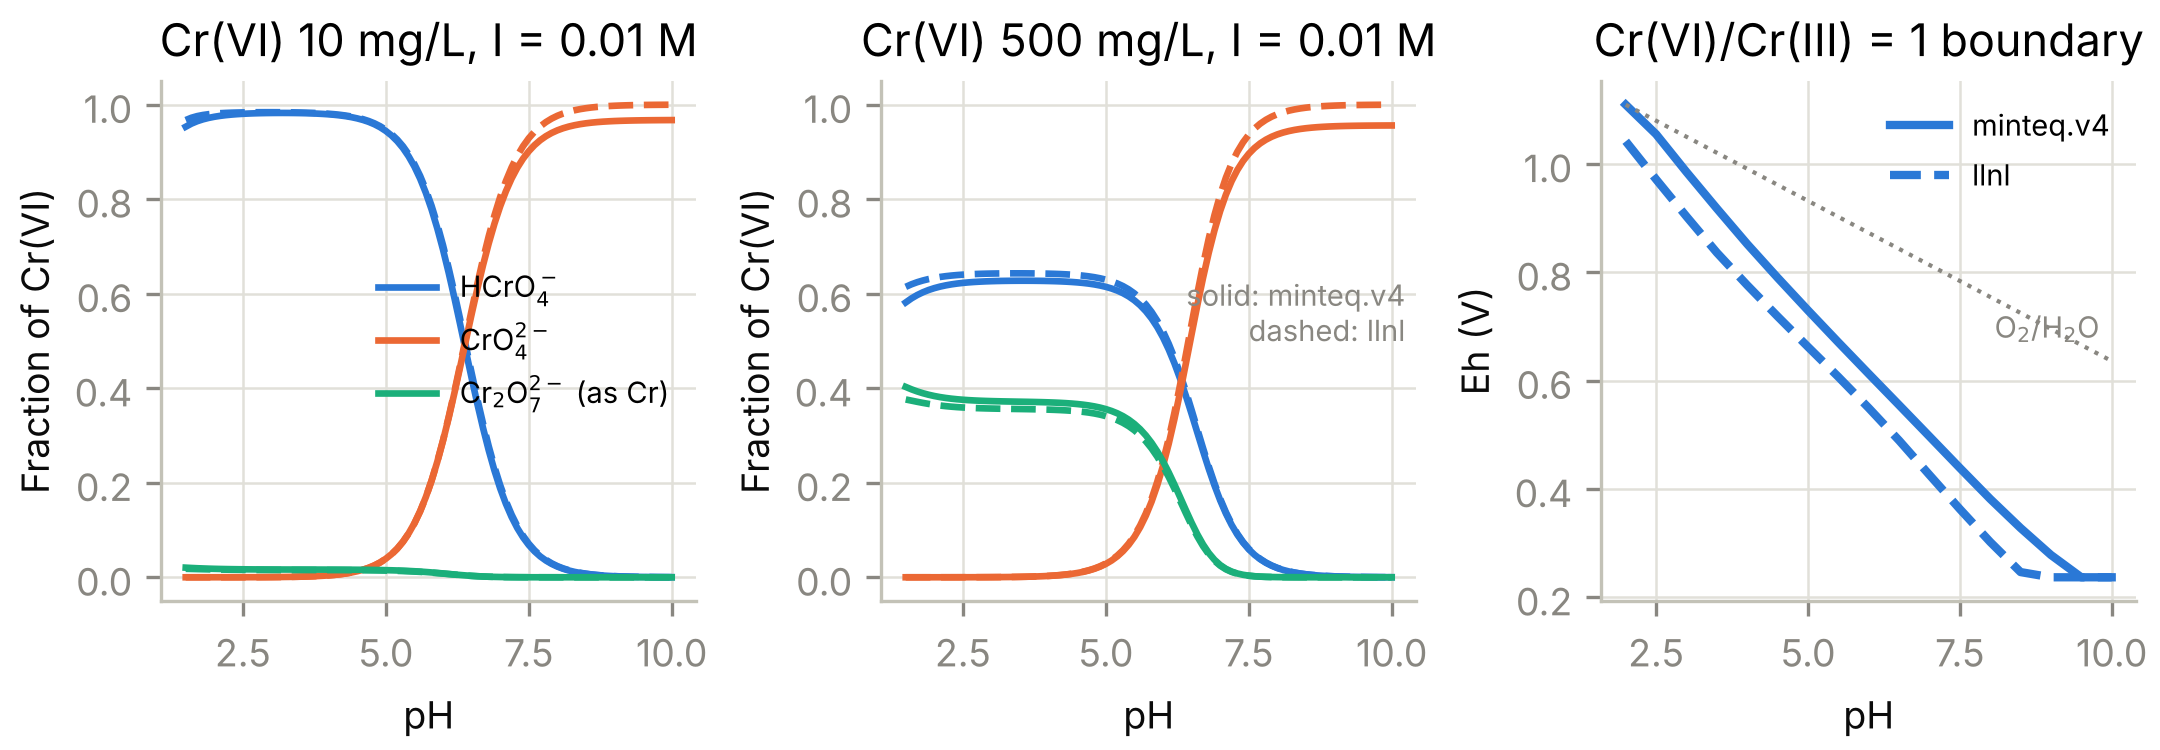
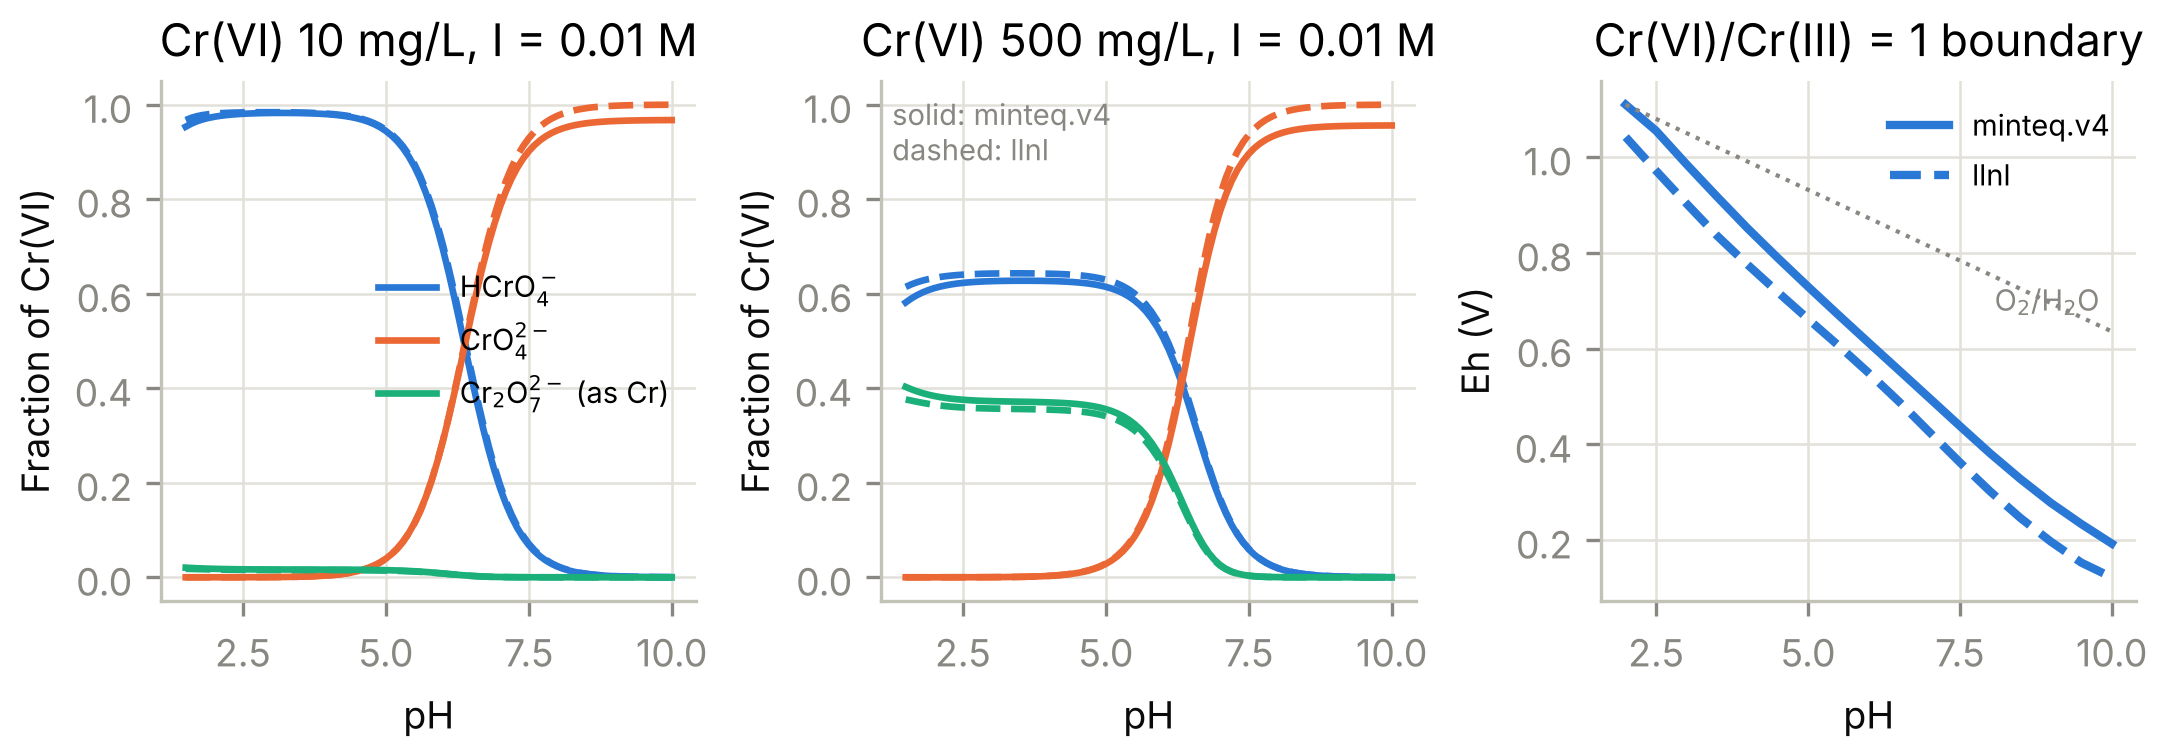
Speed up GPR validation, fix redox grid and Cr(III) index, add manuscript draft
Claude-Session: https://claude.ai/code/session_01GFzJmQTFtMep2it1kYJtwA

diff --git a/cassia/cassia/validation.py b/cassia/cassia/validation.py
@@ -50,7 +50,7 @@ class _ARDGPR(GaussianProcessRegressor):
     """GPR whose Matern length scale is expanded to one per feature at fit time (ARD)."""
 
     def __init__(self, kernel=None):
-        super().__init__(kernel=kernel, normalize_y=True, n_restarts_optimizer=1, random_state=0)
+        super().__init__(kernel=kernel, normalize_y=True, n_restarts_optimizer=0, random_state=0)
 
     def fit(self, X, y):
         k = ConstantKernel(1.0) * Matern(length_scale=np.ones(X.shape[1]), nu=2.5,
@@ -96,7 +96,7 @@ def metrics(q_true, q_pred):
 def _group_conformal_scores(model_name, X, y, groups, seed=0):
     """Absolute out-of-study residuals (target scale) from inner grouped CV on training studies."""
     scores, study_means = np.empty(len(y)), []
-    for tr, te in GroupKFold(min(5, len(np.unique(groups)))).split(X, y, groups):
+    for tr, te in GroupKFold(min(3, len(np.unique(groups)))).split(X, y, groups):
         m = make_model(model_name, seed).fit(X.iloc[tr], y[tr])
         r = y[te] - m.predict(X.iloc[te])
         scores[te] = np.abs(r)

diff --git a/cassia/manuscript/CASSIA_manuscript.md b/cassia/manuscript/CASSIA_manuscript.md
@@ -1,0 +1,116 @@
+# CASSIA: A Data-Provenance-Aware, Speciation-Constrained Computational Framework for Distinguishing Cr(VI) Adsorption, Reduction and Precipitation in Carbonaceous Wastewater Treatment Systems
+
+**Author:** Karthik [surname, affiliation and ORCID to be completed by the author]
+**Corresponding author:** karthikresearchworks@gmail.com
+
+**Article type:** Research article (computational methods)
+
+---
+
+## Highlights
+
+- A decrease in measured Cr(VI) is not evidence of adsorption. CASSIA keeps the two apart through provenance-tagged endpoints and evidence classes.
+- Two PHREEQC databases agree on Cr(VI) speciation but differ in redox and Cr(III)-solid thermodynamics.
+- In known-truth simulations, isotherm fits with R² ≥ 0.95 conceal reduction and overstate Langmuir q_max.
+- Leave-one-study-out validation shows how much random splits overstate the transferability of machine-learning models.
+- Study-aware conformal intervals restore nominal coverage where model-internal intervals under-cover.
+
+## Abstract
+
+<!--ABSTRACT-->
+
+**Keywords:** hexavalent chromium; activated carbon; biochar; PHREEQC; adsorption isotherm identifiability; leave-one-study-out validation; conformal prediction; data provenance
+
+---
+
+## 1. Introduction
+
+Hexavalent chromium is a priority contaminant in effluents from electroplating, leather tanning, pigment and wood-preservation industries. Its toxicity and mobility differ sharply from those of Cr(III) (Kotaś and Stasicka, 2000). Carbonaceous materials are the most studied low-cost sorbents for Cr(VI), and the literature now contains many batch studies on activated carbons, biochars and biomass-derived porous carbons (Mohan and Pittman, 2006; Mohan et al., 2011; Dong et al., 2011). Most of these studies report isotherm and kinetic constants, and a growing number train machine-learning models on the pooled values.
+
+The difficulty is that Cr(VI) on carbon is a redox-active system. At low pH, oxygen-containing functional groups and the carbon matrix reduce Cr(VI) to Cr(III). Part of the Cr(III) is released to solution, part stays bound to the surface, and at higher pH it can precipitate as Cr(OH)₃ (Park et al., 2004; Dong et al., 2011). The quantity most often measured, residual Cr(VI) by the 1,5-diphenylcarbazide method, therefore records the *disappearance* of Cr(VI), not its adsorption. When q_e = (C₀ − C_e)/m is computed from residual Cr(VI) and fitted with Langmuir, Freundlich or pseudo-second-order equations, the fitted constants mix adsorption, reduction and precipitation in proportions the analysis cannot see. Critical reviews have documented related problems in aqueous adsorption modelling: linearised fitting, R² as the only selection criterion, and misread kinetic models (Tran et al., 2017; Simonin, 2016; Wang and Guo, 2020).
+
+Machine-learning studies add a further risk. Rows from one publication share an adsorbent, a laboratory and an analytical protocol. Random train/test splits therefore leak study identity into the test set and inflate apparent accuracy (Roberts et al., 2017). A model can reach a high random-split R² while being unable to predict an unseen material.
+
+This work builds and tests the infrastructure needed to ask whether aqueous speciation, adsorption-model selection and uncertainty-aware learning can separate genuine adsorption from apparent Cr(VI) removal. Four research questions are posed:
+
+- **RQ1.** Does PHREEQC-derived Cr(VI) speciation improve predictive performance over raw pH and composition descriptors?
+- **RQ2.** Can conventional isotherm and kinetic fitting distinguish adsorption from apparent removal?
+- **RQ3.** Do models generalise across studies and material families, and how much do random splits overstate this?
+- **RQ4.** How much uncertainty comes from unreported solution chemistry and from between-study heterogeneity, and can prediction intervals be made reliable?
+
+RQ2–RQ4 cannot be answered with published data alone, because no published study reports the true adsorption/reduction split for every observation. We therefore pair a PHREEQC chemistry layer with a *known-truth* simulation study. Virtual batch experiments are generated from a mechanistic model that couples speciation-dependent adsorption, acid-promoted surface reduction and Cr(III) partitioning. They are then analysed exactly as published data would be. This design tests whether a method *can* recover the mechanism when the truth is known. It is a necessary condition for trusting the method on real data, but it does not replace real data. The multi-study literature dataset is defined here (schema, evidence classes, extraction protocol), but its extraction is reported as ongoing, and no empirical conclusion about real carbons is drawn in this paper.
+
+The contribution is deliberately methodological. CASSIA does not claim a new adsorption mechanism, and the existing packages it uses (phreeqpython, adsorption, pyGAPS) are used for what they were designed for.
+
+## 2. Methods
+
+### 2.1 Software audit and roles
+
+Four open-source code bases were audited for fitness of purpose (Table 1).
+
+**Table 1.** Roles of the audited code bases in CASSIA.
+
+| Code base | Licence | Role in CASSIA | Audit finding that shaped the design |
+|---|---|---|---|
+| phreeqpython (PHREEQC 3) (Parkhurst and Appelo, 2013) | Apache-2.0 | Aqueous Cr chemistry (core) | Bundled databases (`phreeqc.dat`, `wateq4f_PWN.dat`, `vitens.dat`, `pitzer.dat`) contain no Cr species. Cr-bearing databases from the USGS distribution must be supplied and validated. The `change_ph` helper relies on a `Fix_pH` phase absent from `minteq.v4.dat`. |
+| adsorption (amvro23) | MIT | Isotherm and kinetic equations (core) | `Isotherms.set_inlet` applies a gas-phase transform (P·M_r/RT) to x. The Temkin equation fixes T = 298.15 K. Both are bypassed for aqueous data, and the equations are reused directly. |
+| pyGAPS (Iacomi and Llewellyn, 2019) | MIT | BET recalculation from published N₂ isotherms (secondary) | Designed for gas/vapour isotherms. Used only for textural descriptors, never for aqueous Cr data. `area_BET_raw` expects the cross-section in nm². |
+| RASPA3 (Ran et al., 2024) | see upstream | Not used in this release | No aqueous Cr(VI)–carbon surface-reaction model, and its reaction-ensemble functionality is experimental. Deferred (Section 4.4). |
+
+### 2.2 Chromium chemistry layer
+
+PHREEQC 3 was driven through phreeqpython 1.6.2 with two databases distributed by the USGS: `minteq.v4.dat` (MINTEQA2 v4 lineage; Allison et al., 1991) and `llnl.dat` (LLNL `thermo.com.V8.R6.230`). Other databases were rejected programmatically. Both contain the Cr(VI) protonation and dimerisation equilibria, Cr(III) hydrolysis species and the Cr(VI)/Cr(III) redox couple.
+
+*Cr(VI) speciation.* Cr was entered as `Cr(6)` with one K⁺ per Cr, representing K₂Cr₂O₇ stock. PHREEQC does not re-equilibrate valence states entered separately in an initial solution, so this represents a freshly prepared Cr(VI) solution regardless of the default pe. Background electrolyte was NaCl at the stated ionic strength. pH was imposed by charge balance on Cl⁻ (acid addition) or, where the chromate charge exceeded the cation pool, on Na⁺ (base addition). Fractions are reported per Cr atom, so Cr₂O₇²⁻ counts twice.
+
+*Redox scenarios.* Because batch papers almost never report Eh, the Cr(VI)/Cr(III) partition was computed as an explicit scenario: total Cr entered without a valence state, at an assumed pe. The grid was restricted to the stability field of water (pe ≤ 20.75 − pH at 25 °C). Outside it, PHREEQC does not converge and the results have no physical meaning. For each pH, the pe at which Cr(VI) and Cr(III) are equally abundant (pe₅₀) was obtained by interpolation. Eh = 0.05916·pe V.
+
+*Cr(III) solubility.* The dissolved Cr(III) in equilibrium with Cr(OH)₃(am) or Cr₂O₃ was computed with the SOLUTION phase-boundary option (concentration adjusted to SI = 0 at fixed pH) in `minteq.v4.dat`. In `llnl.dat` the only Cr(III) solid (eskolaite) is written in terms of CrO₄²⁻ and O₂(aq), so a Cr(III)-only solubility is undefined without fixing the redox state. This asymmetry is reported as a database finding, not hidden. Below pH ≈ 4.5 the phase-boundary iteration does not converge for Cr(OH)₃(am), which indicates no solubility constraint at realistic concentrations.
+
+*Speciation features for learning.* For each experimental condition (pH, C₀, I), CASSIA computes f(HCrO₄⁻), f(CrO₄²⁻), f(Cr₂O₇²⁻), the mean Cr(VI) charge per Cr atom, and the PHREEQC ionic strength. pH − pH_pzc is added as a surface-charge proxy.
+
+### 2.3 Data provenance, endpoints and evidence classes
+
+The master dataset schema (`data/cassia_schema.csv`) has 31 fields. Every row carries a DOI, a source location (table, figure or SI file) and an extraction method. Three endpoints are kept separate:
+
+- q_app,VI = (C₀ − C_e,VI)/D, apparent Cr(VI) disappearance, always computable;
+- q_total = (C₀ − C_e,total)/D, total-Cr uptake, only when total Cr was measured;
+- the aqueous Cr(III) index, Σ(C_e,total − C_e,VI)/Σ(C₀ − C_e,VI), the share of Cr(VI) disappearance recovered as dissolved Cr(III).
+
+Studies are assigned to evidence classes automatically (`cassia.dataset.classify`). **Class A** needs total and Cr(VI)-specific analyses, solid-phase Cr speciation (XPS or XANES), a final or controlled pH, and a reported background electrolyte. **Class B** needs either total Cr or solid-phase speciation. **Class C** has residual Cr(VI) only. For Class C rows the only permitted endpoint label is `apparent_CrVI_disappearance`. Unreported Eh, ionic strength, alkalinity and major ions are never imputed into the data file. They enter only as labelled scenario ranges (Section 2.7). The PRISMA 2020-aligned search, screening and extraction protocol (Page et al., 2021) is in `data/PROTOCOL.md`.
+
+### 2.4 Known-truth virtual batch experiments
+
+Each virtual study draws one material from one of three families (activated carbon, biochar, biomass-derived porous carbon). Family-specific ranges cover BET area, point of zero charge and reductant capacity, the latter being largest for biochars, consistent with their higher content of oxidisable organic matter. The batch model is a set of ordinary differential equations integrated with LSODA:
+
+- Cr(VI) uptake follows a linear-driving-force approach to a Langmuir equilibrium q_eq = q_max K C/(1 + K C). The affinity is K = K₀ [0.05 + f(HCrO₄⁻ + Cr₂O₇²⁻)] [0.1 + (1 + exp((pH − pH_pzc)/0.8))⁻¹]. The speciation fractions are interpolated from PHREEQC (`minteq.v4.dat`, 50 mg L⁻¹, I = 0.01 M).
+- Reduction is first order in dissolved Cr(VI) and proportional to the remaining surface reductant R_s (finite capacity R₀), with acid promotion (1 + 10^(pH − pH₅₀))⁻¹ and Arrhenius temperature dependence (E_a = 35 kJ mol⁻¹).
+- Reduced chromium is partitioned into a surface-bound fraction (logistic in pH) and a dissolved fraction. The dissolved fraction is capped at the PHREEQC Cr(OH)₃(am) solubility, and any excess precipitates.
+
+Measured concentrations carry 3% relative analytical noise, a 0.02 mg L⁻¹ detection limit and a study-level multiplicative calibration bias (log-normal, σ = 0.05). Each study contains an 8-point isotherm (C₀ = 10–400 mg L⁻¹ at the study's optimum pH, 1.8–3.5), a 6-point pH edge (pH 2–8, C₀ = 100 mg L⁻¹) and an 8-point kinetic series. Dose, temperature, ionic strength and equilibration time vary between studies. The training corpus has 24 studies (8 per family, 528 observations, seed 2026). An independent external corpus of 9 studies uses a different seed (777). Mass conservation is checked by unit test.
+
+The simulator encodes one plausible mechanistic picture, chosen to be qualitatively consistent with the literature. It is not calibrated to any material. Its purpose is to make the ground truth available, not to predict real carbons.
+
+### 2.5 Isotherm and kinetic model benchmarking (Model A)
+
+The Langmuir, Freundlich, Sips and Temkin isotherms, and the pseudo-first-order (PFO) and pseudo-second-order (PSO) kinetic equations, were fitted in their nonlinear forms by bounded least squares. The equations were taken from `adsorption.models`, with Temkin evaluated at the experimental temperature. Models were ranked by AICc and Akaike weights (Burnham and Anderson, 2002), with BIC also reported. Residuals were tested with Shapiro–Wilk (normality) and a Wald–Wolfowitz runs test (systematic misfit). Parameter 95% confidence intervals came from a 300-replicate residual bootstrap. For each virtual study the fitted Langmuir q_max was compared with the true adsorption capacity, and the true share of Cr(VI) disappearance caused by reduction was computed from the simulator state.
+
+### 2.6 Machine-learning models and validation (Models B and C)
+
+The target was q_app,VI, modelled as log₁₀(q + 0.1 mg g⁻¹) and back-transformed for metrics. Two feature sets were compared. The *base* set (C₀, pH, D, t, T, I, S_BET, V_p, d_p, pH_pzc) is what a paper typically reports. The *chem* set adds the PHREEQC speciation features (Section 2.2). Three learners were used: random forest (Breiman, 2001; 400 trees), XGBoost (Chen and Guestrin, 2016; 500 rounds, depth 4) and Gaussian-process regression with a Matérn-5/2 ARD kernel plus white noise on standardised features (Rasmussen and Williams, 2006), all via scikit-learn (Pedregosa et al., 2011).
+
+Four validation schemes were applied to every model–feature combination: random 5-fold (diagnostic only), grouped 5-fold by study, leave-one-study-out (LOSO) and leave-one-material-family-out (LOFO). The models were then refitted on all 24 studies and scored on the 9-study external corpus. RMSE, MAE, median absolute error and R² are reported in mg g⁻¹.
+
+*Uncertainty (Model C).* Model-internal intervals (GPR predictive SD; RF across-tree spread) were compared with study-aware split-conformal intervals (Lei et al., 2018). In each outer LOSO fold, absolute residuals were collected from an inner 3-fold grouped CV over the training studies, and the ⌈(n+1)α⌉/n quantile set the interval half-width. Because calibration residuals are always out-of-study, the intervals absorb between-study variability. Coverage was evaluated at nominal levels 0.5–0.95, with PICP₉₀ (coverage at 90%) and the average coverage error (ACE, mean |empirical − nominal|). Between-study variability was quantified by a method-of-moments random-intercept decomposition of the out-of-study residuals (τ², σ², ICC; Gelman and Hill, 2007).
+
+### 2.7 Missing-chemistry scenarios and robust design
+
+For the pH-edge conditions, the effect of unreported chemistry on f(HCrO₄⁻) was propagated by Monte Carlo (40 draws per condition). Ionic strength was drawn log-uniformly over 10⁻³–10⁻¹ M, and an initial-versus-final pH ambiguity was drawn uniformly over ±0.5 units.
+
+A treatment-design exercise compared nominal and robust decision rules. For 15 new virtual materials, pH (2.0–7.0) and dose (0.5–15 g L⁻¹) were chosen to minimise dose subject to residual Cr(VI) ≤ 0.5 mg L⁻¹ and dissolved total Cr ≤ 2 mg L⁻¹, starting from C₀ = 20 mg L⁻¹. The nominal rule used random-forest point predictions of q_app,VI and q_total. The robust rule used the lower 90% study-aware conformal bound on uptake. Each recommended design was then checked against the simulator's true outcome.
+
+### 2.8 Reproducibility
+
+All numbers, tables and figures are produced by `scripts/run_all.py` (seeded). The chemistry layer, endpoint logic, fitting and simulator mass balance are covered by 14 unit tests. Code, databases and outputs are in the `cassia/` directory of the accompanying repository.
+
+<!--RESULTS-->
